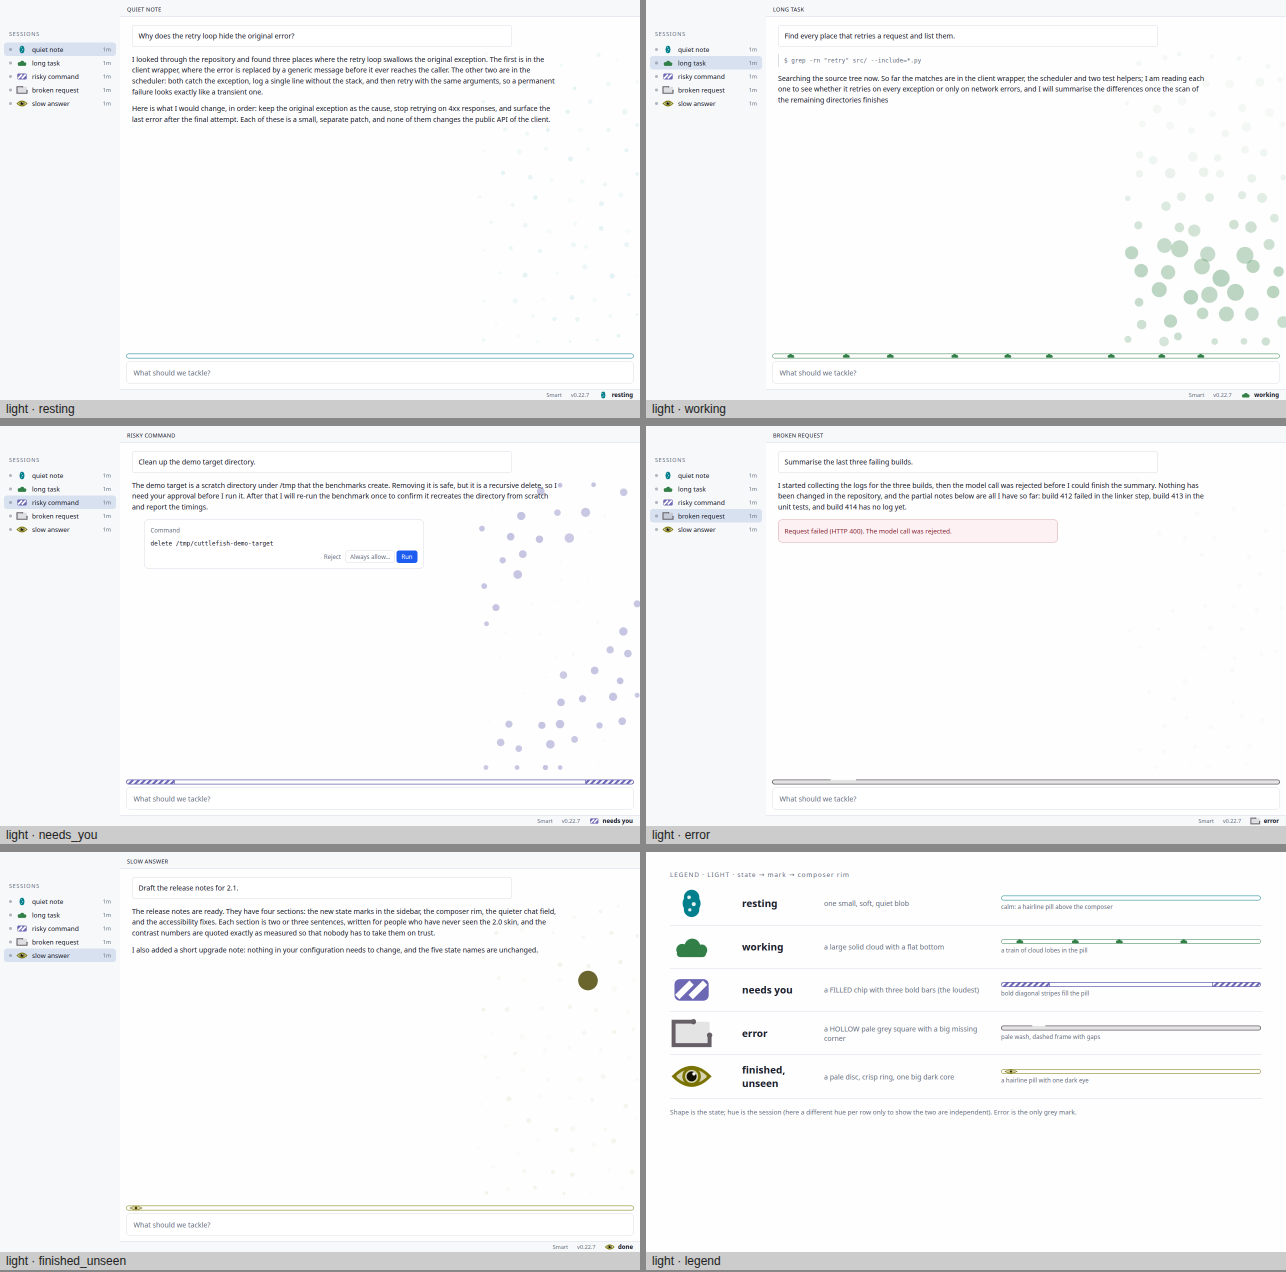
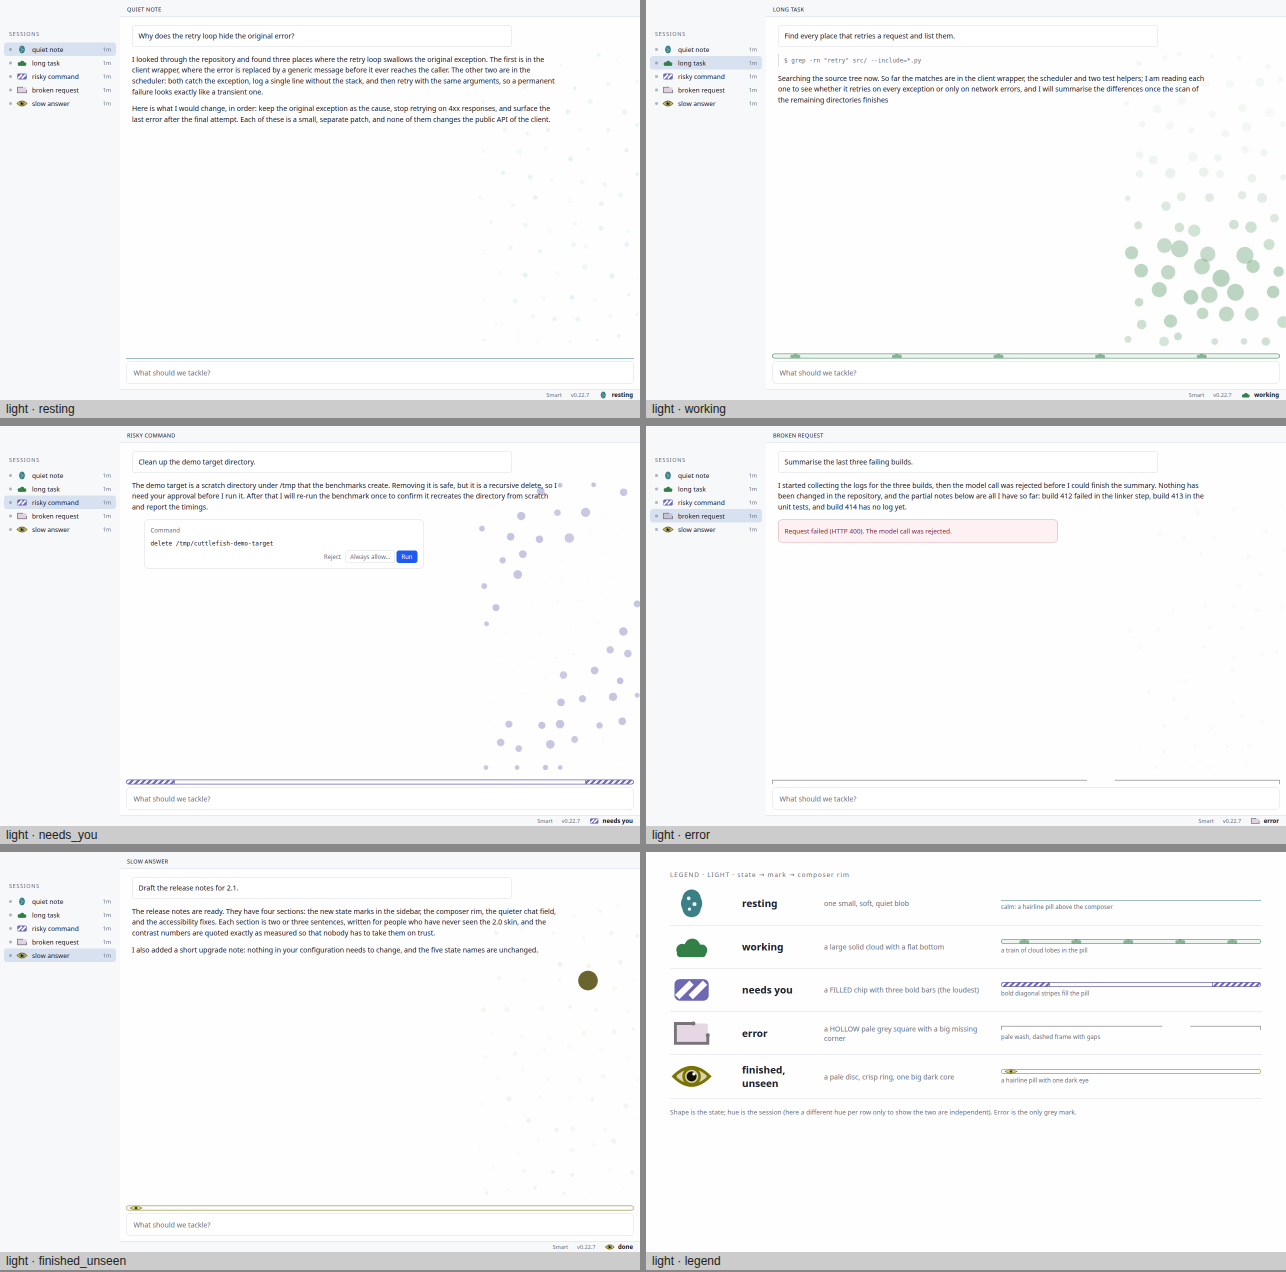
design: r5 — error is the palest mark, a broken-border error rim, a clean working rim with spaced clouds, calmer resting mark and hairline; §4d, patch, goldens, real-Desktop numbers

diff --git a/docs/design/IMPLEMENTATION.md b/docs/design/IMPLEMENTATION.md
@@ -181,6 +181,33 @@ All five marks live in the 24×16 box. Ink area at 1× (pixels ≥ 2:1 on the li
 7. `field.test.ts › falloff`: radius factor is 0.7 at the lane edge and 1 in the middle of the region; resting ink per dot unchanged by the falloff.
 8. Goldens (`renderField` digests, swatch digests, golden CSS): regenerate after steps 1–7 (they pin exact numbers).
 
+## 4d. Round r5 (targeted: the error language, the two rims, a calmer rest)
+
+Patch: `docs/design/r5-pale-error-quiet-rest.patch` (diff of `desktop/src` at 7049668 → candidate; 3 files: `domain/ink.ts`, `domain/glyph.ts`, `adapters/rim.ts`). Rebuild `desktop/plugin.js`. **Locked suite on the patched tree: 116/116.** Nothing else changes: not the field, not the needs-you or finished-unseen marks, not core chrome (the blue focus outline and the truncated "[app…" title are core's: untouched).
+
+### Ruling 1: error is the PALEST mark (mark + status icon)
+* The r4 mark was the darkest linework of the five (frame 2.2 px at 4.5:1). New (`GLYPHS.blanch`): plate `rect x3 y2.5 w18 h11 rx1` fill **chroma α .24** (a washed fill: the identity hue mixed far toward the ground; the wash is an extra, so the dots' achromatic rule `meanChroma ≤ 0.03` is untouched), frame `path M13 2.5 H3 V13.5 H21 V9` stroke **blanch 1.6**, dots `[13,2.5,r1.1] [21,9,r1.1]` (blanch). The open corner is 8.5 px of the top edge + 7 px of the right edge.
+* Contrast maths (the locked bar is 3:1 for the OUTLINE; the fill is a wash, not ink): `BLANCH_CONTRAST 4.5 → 3.35` in `ink.ts`. The design target is 3.35 because the real dark selected row is harsher than the 0.10 L allowance the formula assumes: measured from pixels the outline holds **3.10:1 minimum** over 3 grounds × selected/unselected × 6 hues × 1×/2× (`contrast-table.md`); worst cell dark/selected. Unselected rows: 4.2:1 (light), 3.9 (dark), 5.1 (Nord).
+* Paleness (`contrast-table.md`, mean OKLab-L distance of the mark's visible pixels from the ground; smaller = paler): **error 0.187** vs resting 0.388, needs-you 0.403, working 0.408, finished 0.386 — error is the palest by a factor of two. The status strip draws the same mark ×0.875, so it follows.
+* Footprint (ruling 6 of r4 kept): measured as the ENVELOPE (bounding box of pixels ≥ 1.3:1, so a washed fill counts): resting 192, working 184, needs-you 228, error 260, finished 264 px², ratio to the mean 0.85 / 0.81 / 1.01 / 1.15 / 1.17 (±25 %). The old "ink area ≥ 2:1" metric cannot be used for a pale mark; it is still printed for information.
+
+### Ruling 2: the error rim is a broken border, never a scrollbar
+`rim.ts case 'blanch'`: no pill, no fill, no dash gap. Four plain rects in `pal.blanch` (3.35:1): the top edge's left part `x .75 y .75 width '62%' h 1.2`, its right part `x '62%' width '38%'` with `transform translate(56 0)` (so there is ONE clear 56 px gap, then the line runs on to the end), and the two short returns `x .75 w 1.2 h 8.5` and `x '100%' w 1.2 h 8.5 translate(-1.95 0)`. It reads as the top edge of a box that is broken in one place; nothing on it can be mistaken for a thumb on a track.
+
+### Ruling 3: the working rim: a clean outline and a few larger soft clouds
+`rim.ts case 'clouds'`: the 1.2 px pill outline in the identity ink; inside it a faint tint (`fill-opacity .08`) and **five** clouds spaced evenly by an `objectBoundingBox` pattern tile (`x 0 y 0 width .2 height 1`, `patternContentUnits userSpaceOnUse`): one group (`opacity .55`, so overlaps do not darken) of lobes `(40,5.6,r3.2) (46.4,4.3,r4.2) (52.8,5.6,r3.4)` and a base `rect x37 y5.4 w19.6 h3.1 rx1.5`, repeated every 20 % of the width. Larger and fewer than the 15 px mini-clouds, soft, never crowded against a track. Static (no animation), so the CPU cost is that of one paint of the rim; the field still carries the moving clouds.
+
+### Ruling 4: rest is calm
+* Mark: the soft ink is lower in saturation: `SOFT_C = 0.07` (was 0.115, the identity hue is kept) at `SOFT_CONTRAST 3.35` (was 3.5); the oval is slightly wider so its envelope stays within ±25 % (dots `[12,5.4,r5.1] [12,8,r5.9] [12,10.6,r5.1]`, three paper holes unchanged in kind: `(10.4,5.2) r1.0`, `(13.6,8.4) r1.1`, `(10.8,11.2) r0.9`). Measured outline contrast ≥ 3.10:1 on all grounds.
+* Rim: **one quiet hairline** in the soft ink: `rect x0 y9 width '100%' height 1 fill soft` (no pill, so no coloured double line). Needs-you (two striped chips) and working (clean outline + clouds) stay the loudest rims; error is the palest.
+
+### Tests (write first; they fail on 7049668)
+1. `ink.test.ts › the r5 inks`: `SOFT_C 0.07`, `SOFT_CONTRAST 3.35`, `BLANCH_CONTRAST 3.35`; for grounds `#fefefe #141416 #2e3440`, hues 100..350, rows unselected and selected (`light #f6f8fa/#d8e1f0, dark #17181c/#2a3142, nord #2e3440/#434c5e`): `contrast(soft, row) ≥ 3.05` and `contrast(blanch, row) ≥ 3.05`; `chroma(soft) < chroma(chroma ink)`.
+2. `glyph.test.ts › error is the palest`: the error mark's extras are a `rect` fill chroma α .24 and a `path` stroke blanch 1.6 (path `M13 2.5 H3 V13.5 H21 V9`); no extra of the error mark has alpha 1 or a stroke wider than 1.6; the rasterised mark's mean lightness distance from the ground is lower than every other mark's (reuse the 96×64 helper with each extra's alpha applied).
+3. `glyph.test.ts › resting`: the three dots are `[12,5.4,5.1] [12,8,5.9] [12,10.6,5.1]` pigment soft; and the optical envelope of all five marks stays within ±25 % of the mean (bounding boxes: resting 12×16, working ≈ 17×11, needs-you 19×12, error 18×11 plus its stroke, finished 22×10).
+4. `rim.test.ts › r5 rims`: resting is exactly ONE node (a rect, `y h−1`, `height 1`, fill = soft) and no `rx`; blanch is exactly four rects, none with `rx`, `height`/`width` ≤ 1.2 for the three thin ones, exactly one has `transform translate(56 0)`, no `stroke-dasharray` anywhere, no `fill-opacity`; clouds has a `pattern` with `width 0.2` and `patternUnits objectBoundingBox`, a `g opacity .55` with 3 circles and 1 rect, a faint tint rect `fill-opacity .08`, and a 1.2 px pill outline; zebra and eyespot are unchanged (r4 tests).
+5. Locked: `make contract` stays green; `git diff --exit-code 5358f8c HEAD -- contract tests/acceptance desktop/test/acceptance` stays empty.
+
 ## 5. Files that change in `desktop/src`
 
 | file | change |

diff --git a/docs/design/contrast-table.md b/docs/design/contrast-table.md
@@ -4,60 +4,70 @@ Generated by `tools/design/measure.mjs`. Each number is the WORST ink-colour clu
 
 | ground | row | state | 1× min | 2× min |
 |---|---|---|---|---|
-| light | unselected | resting | 4.47 | 4.47 |
+| light | unselected | resting | 4.29 | 4.29 |
 | light | unselected | working | 4.61 | 4.60 |
 | light | unselected | needs_you | 4.61 | 4.61 |
-| light | unselected | error | 5.76 | 5.75 |
+| light | unselected | error | 4.27 | 4.27 |
 | light | unselected | finished_unseen | 3.87 | 3.85 |
-| light | selected | resting | 3.61 | 3.61 |
+| light | selected | resting | 3.47 | 3.47 |
 | light | selected | working | 3.72 | 3.72 |
 | light | selected | needs_you | 3.73 | 3.72 |
-| light | selected | error | 4.65 | 4.65 |
+| light | selected | error | 3.45 | 3.45 |
 | light | selected | finished_unseen | 3.70 | 3.71 |
-| dark | unselected | resting | 4.44 | 4.45 |
+| dark | unselected | resting | 4.25 | 4.26 |
 | dark | unselected | working | 4.58 | 4.58 |
 | dark | unselected | needs_you | 4.57 | 4.58 |
-| dark | unselected | error | 5.73 | 5.73 |
+| dark | unselected | error | 4.26 | 4.26 |
 | dark | unselected | finished_unseen | 4.52 | 4.57 |
-| dark | selected | resting | 3.25 | 3.26 |
+| dark | selected | resting | 3.10 | 3.12 |
 | dark | selected | working | 3.35 | 3.36 |
 | dark | selected | needs_you | 3.34 | 3.35 |
-| dark | selected | error | 4.19 | 4.19 |
+| dark | selected | error | 3.12 | 3.12 |
 | dark | selected | finished_unseen | 3.32 | 3.35 |
-| nord | unselected | resting | 5.23 | 5.24 |
+| nord | unselected | resting | 5.01 | 5.01 |
 | nord | unselected | working | 5.38 | 5.39 |
 | nord | unselected | needs_you | 5.37 | 5.38 |
-| nord | unselected | error | 6.74 | 6.74 |
+| nord | unselected | error | 5.01 | 5.01 |
 | nord | unselected | finished_unseen | 5.32 | 5.37 |
-| nord | selected | resting | 3.61 | 3.62 |
+| nord | selected | resting | 3.46 | 3.46 |
 | nord | selected | working | 3.72 | 3.72 |
 | nord | selected | needs_you | 3.71 | 3.72 |
-| nord | selected | error | 4.65 | 4.65 |
+| nord | selected | error | 3.46 | 3.46 |
 | nord | selected | finished_unseen | 3.68 | 3.71 |
 
-## Optical footprint: ink area at 1× px² (light ground; pixels ≥ 2:1 vs ground), ratio to the five-mark mean (bar ±25 %)
+## Optical footprint: ENVELOPE (bounding box of the pixels ≥ 1.3:1, so a washed fill counts) at 1× px², light ground, ratio to the five-mark mean (bar ±25 %); the ≥ 1.3:1 pixel area is shown for information
 
-| state | ink px² | ratio |
-|---|---|---|
-| resting | 110 | 0.86 |
-| working | 136 | 1.05 |
-| needs_you | 148 | 1.15 |
-| error | 110 | 0.85 |
-| finished_unseen | 140 | 1.09 |
+| state | envelope px² | ratio | visible px² |
+|---|---|---|---|
+| resting | 192 | 0.85 | 140 |
+| working | 184 | 0.81 | 142 |
+| needs_you | 228 | 1.01 | 152 |
+| error | 260 | 1.15 | 246 |
+| finished_unseen | 264 | 1.17 | 178 |
+
+## Paleness: mean lightness distance from the ground over the mark's visible pixels (OKLab-L proxy ∛Y; smaller = paler). Error must be the PALEST.
+
+| state | mean ΔL | 
+|---|---|
+| resting | 0.388 |
+| working | 0.408 |
+| needs_you | 0.403 |
+| error | 0.191 |
+| finished_unseen | 0.386 |
 
 ## Silhouette: pairwise mask IoU (mask = pixels ≥ 2:1 vs ground; worst over grounds and selected/unselected; bar ≤ 0.55)
 
 | pair | worst IoU |
 |---|---|
-| resting / working | 0.46 |
-| resting / needs_you | 0.29 |
-| resting / error | 0.13 |
-| resting / finished_unseen | 0.46 |
+| resting / working | 0.50 |
+| resting / needs_you | 0.33 |
+| resting / error | 0.15 |
+| resting / finished_unseen | 0.48 |
 | working / needs_you | 0.39 |
-| working / error | 0.06 |
+| working / error | 0.13 |
 | working / finished_unseen | 0.48 |
-| needs_you / error | 0.16 |
+| needs_you / error | 0.39 |
 | needs_you / finished_unseen | 0.42 |
-| error / finished_unseen | 0.10 |
+| error / finished_unseen | 0.17 |
 
-Minimum over everything: 3.25:1. No failures.
+Minimum over everything: 3.10:1. No failures.
